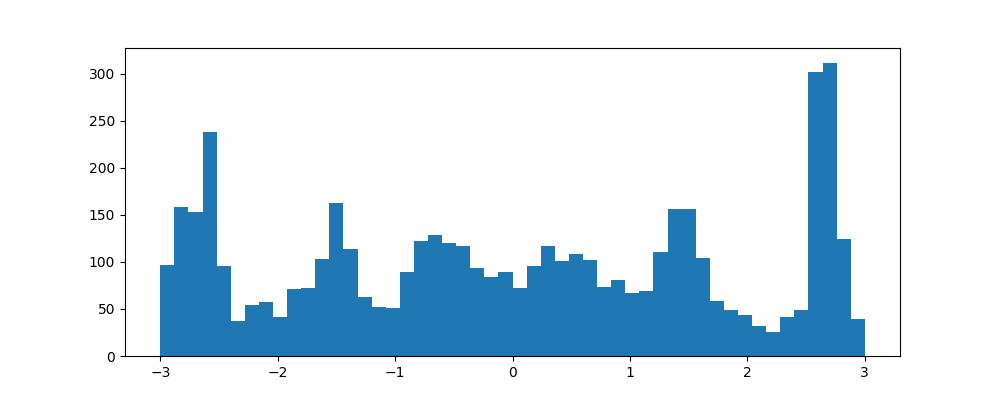
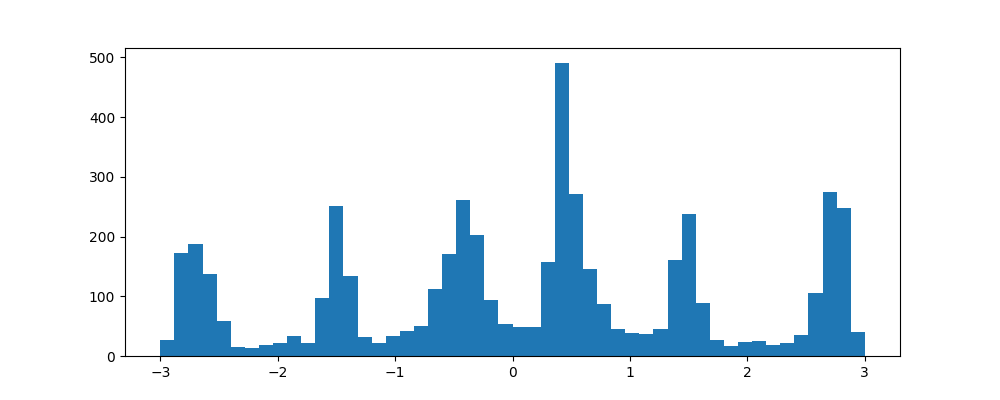
generic commit

diff --git a/scripts/transport/kvae_flow2.py b/scripts/transport/kvae_flow2.py
@@ -69,7 +69,7 @@ class Comp_transport_model:
         self.plot_steps = False
 
         n = len(self.submodel_params['Lambda_mean'])
-        eps = .01
+        eps = 1e-3
         self.noise_shrink_c = np.exp(np.log(eps)/(n))
 
 
@@ -330,9 +330,11 @@ class CondTransportKernel(nn.Module):
         target = self.Y_test
         map_vec = self.map(x_mu, y_eta, y_mean, y_var)['y']
 
-        clear_plt()
-        save_loc = f'../../data/kernel_transport/swiss_kflow/test_map_gen.png'
-        clear_plt()
+        if not self.iters % 500:
+            clear_plt()
+            save_loc = f'../../data/kernel_transport/spiral_kflow/test_map_gen.png'
+            sample_hmap(map_vec, save_loc, bins=50, bw_adjust=0.25,d=2, range=[[-3, 3], [-3, 3]], vmax=.15)
+            clear_plt()
         return self.mmd(map_vec, target)
 
 
@@ -362,7 +364,7 @@ def comp_cond_kernel_transport(X_mu, Y_mu, Y_eta, params, n_iter = 1001, n = 50,
                                Y_eta_test = [], X_mu_test = [],Y_mu_test = [], f = .95):
     model_params = {'fit_kernel': [], 'Lambda_mean': [], 'X_mean': [], 'Lambda_var': [], 'X_var': []}
     iters = 0
-    eps = .01
+    eps = 1e-3
     noise_shrink_c = np.exp(np.log(eps)/(n))
 
     Y_mean = []
@@ -469,7 +471,7 @@ def sode_hist(trajectories, savedir, save_name = 'traj_hist', n = 4):
 
 def conditional_transport_exp(ref_gen, target_gen, N = 1000, n_iter = 1001, vmax = None,
                            exp_name= 'exp', plt_range = None,  process_funcs = [],
-                           cond_model_trainer= comp_cond_kernel_transport,idx_dict = {}, bins = 70,
+                           cond_model_trainer= comp_cond_kernel_transport,idx_dict = {}, bins = 50,
                            skip_idx = 0, plot_idx = [], plots_hists = False, n_transports = 40):
      save_dir = f'../../data/kernel_transport/{exp_name}'
      try:
